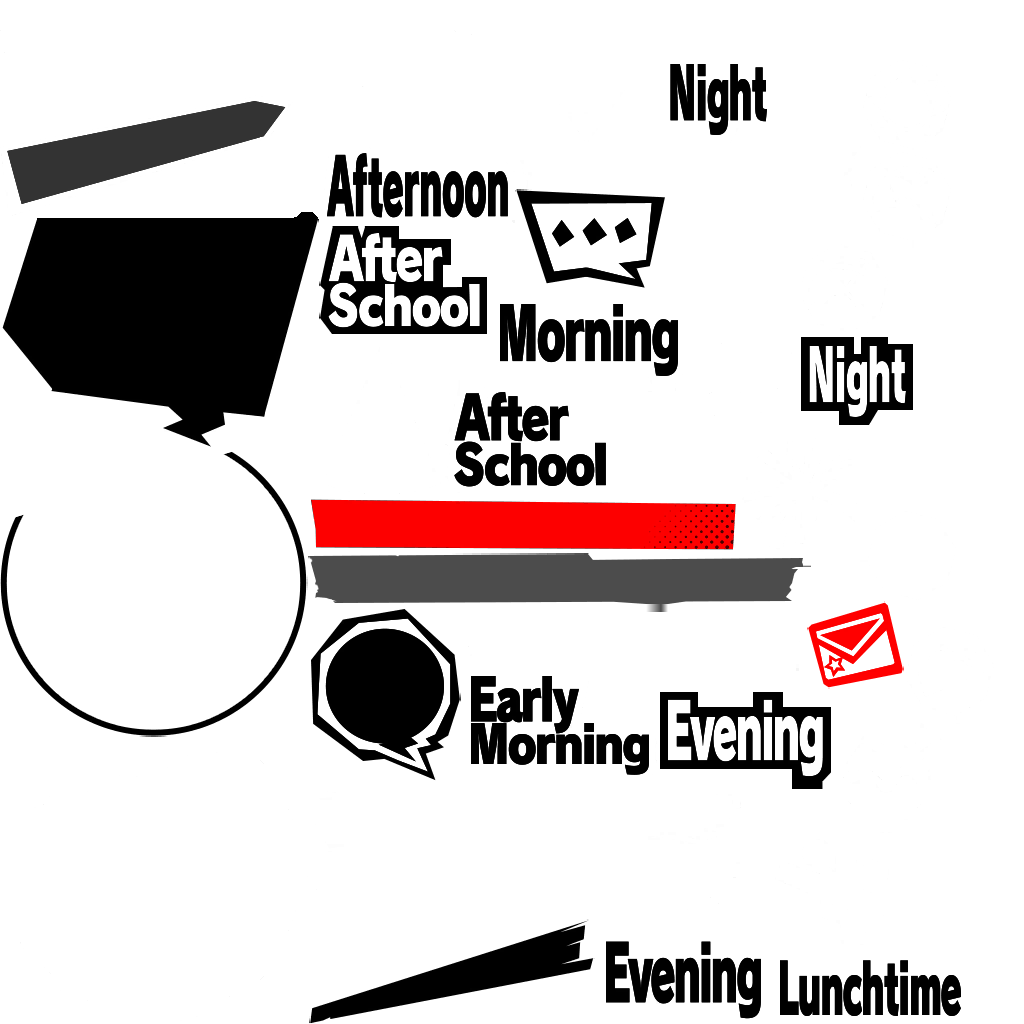
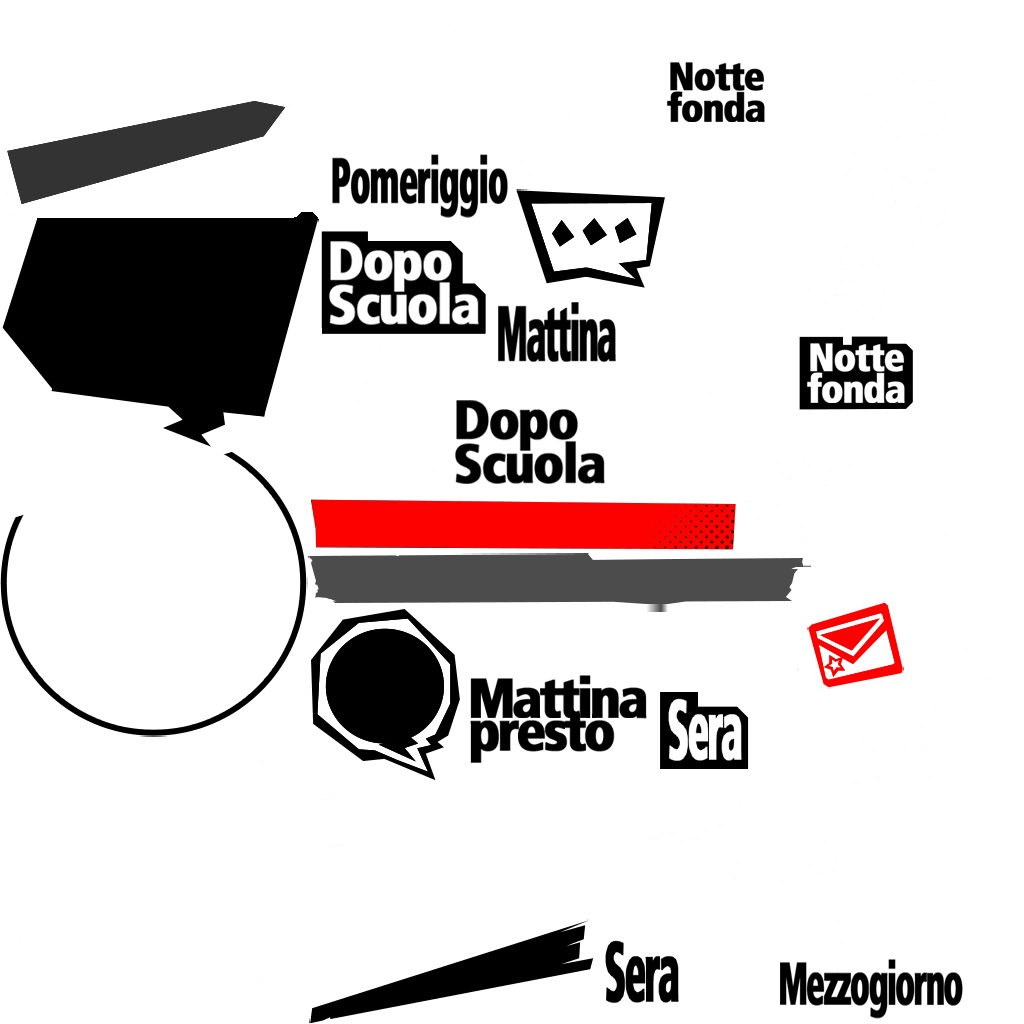
Update P5X IT Translation - Build 05/07/2025-Build1

diff --git a/README.md b/README.md
@@ -1,0 +1,90 @@
+# P5X Patch IT - Traduzione Italiana by GamePatchingItaly 2025
+Traduzione Italiana del gioco **Persona 5: Phantom X**.
+
+**Ultima modifica:** 05/07/2025
+**Build:** 05/07/2025-Build1
+**Versione BepInEx:** 5.4.22
+**Compatibilità:** Persona 5 Phantom X (Global)
+
+## 🔧 Funzionamento
+
+Questa traduzione funziona grazie a due mod inserite tramite BepInEx,
+che consentono di sostituire in tempo reale le risorse (testi, Texture2D e 3D)
+dal processo del gioco, senza dover modificare i file di gioco, di fatto
+non violando i Termini di Servizio (alternativa più sicura contro eventuali
+ban da parte di un ipotetico anticheat).
+
+La prima mod, XUAT (XUnityAutoTranslator) rimpiazza i testi traducendoli in tempo
+reale con un traduttore online, dando la possibilità di revisionare manualmente le
+traduzioni.
+La seconda mod, TextureReplacer, consente di dumpare e rimpiazzare le texture sempre
+in tempo reale, permettendo quindi di poterle modificare e reimportare con molta facilità.
+
+## 📥 Installazione
+
+1. Scarica tutti i file dalla repository
+2. Estrai nella directory principale del gioco
+3. Avvia il gioco tramite il file "Launcher.bat"
+
+## 📂 Struttura Patch
+
+```
+P5X_CartellaGioco/
+├── BepInEx/              # Framework mod
+│   ├── Translation/      # File traduzione
+│   │   └── it/          # Traduzione italiana
+│   │       └── Text/    # File .txt tradotti
+│   └── plugins/         # Plugin mod
+│       └── ModImages/   # Immagini tradotte
+├── Launcher.bat        # Launcher 
+├── dotnet/             # Runtime .NET
+├── baselib.dll         # Libreria base
+├── winhttp.dll         # Libreria HTTP
+├── doorstop_config.ini # Configurazione
+└── .doorstop_version   # Versione doorstop
+```
+
+## 🔋 Obiettivi
+
+L'obiettivo principale rimane quello di poter fornire un'esperienza di gioco
+il più possibile in italiano, stando alle limitazioni imposte dalla mod.
+Di base gli obiettivi per questo progetto sono:
+- Traduzione in italiano di tutte le componenti fondamentali per il gioco e
+  di tutte le funzionalità end-game attualmente presenti
+- Aggiornamenti mensili che traducano la storia e la sua evoluzione nel tempo,
+  oltre che i vari nuovi eventi e personaggi che verranno aggiunti.
+- Correzione degli errori segnalati e delle dimenticanze
+- Traduzione delle texture.
+
+## 🐛 Segnalazione Bug
+
+Purtroppo non possiamo tradurre i testi manualmente se prima non
+vengono tradotti automaticamente dalla mod, dopo esser apparsi almeno
+una volta a schermo.
+Potrebbero essere quindi presenti delle "dimenticanze" non revisionate
+manualmente che verranno tradotte in tempo reale dalla mod.
+Vi invitiamo a segnalare qualunque errore di traduzione, adattamento,
+grammaticale o grafico nella sezione Issues, dove potete anche lasciare
+dei suggerimenti qualora vogliate contribuire alla traduzione.
+
+## ⚠ Disclaimer
+
+- Traduzione **non ufficiale**.
+- La rivendita di questa mod è vietata dalla legge
+  e costituisce reato. Se hai pagato per questa
+  traduzione sei stato truffato.
+- Non utilizzare BepInEx per caricare mod che
+  possano rovinare l'esperienza di gioco agli
+  altri utenti, Supporta gli sviluppatori del gioco.
+- Non ci prendiamo alcuna responsabilità per
+  eventuali ban da parte di SEGA/Black Wings a causa 
+  dell'utilizzo questa mod o del suo uso improprio.
+
+## 👥 Crediti
+
+Questo progetto è realizzato e mantenuto dal **GamePatchingTeam - 2025**
+**Project Leader**: Rytheex
+**Traduttori**: Rytheex
+**Grafica**: Rytheex
+Si ringrazia la community di **P5X Worldwide**, i creatori di BepInEx, XUnityAutoTranslator, TextureReplacer e delle mod di P5X per la versione Taiwan e Korea.
+
